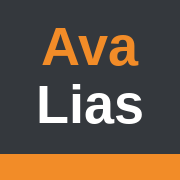
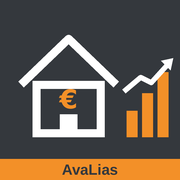
AvaLias: ícone de avaliação de ativos (casa, € e gráfico); service worker guarda o manifest certo
Claude-Session: https://claude.ai/code/session_01WmKbAz9Cc2mBjezjkKT2Gw

Changed region(s): [[0.0833, 0.1389, 0.9722, 0.7778], [0.0, 0.8333, 1.0, 0.9722]]

diff --git a/avalias/sw.js b/avalias/sw.js
@@ -1,7 +1,7 @@
 // AvaLias — service worker: guarda a app no aparelho para funcionar sem rede.
 // Estratégia "rede primeiro": com rede, vai sempre buscar a versão mais recente; sem rede, usa a cópia guardada.
-const CACHE = 'avalias-v1';
-const ASSETS = ['./', 'index.html', 'manifest.json', 'icon-180.png', 'icon-192.png', 'icon-512.png'];
+const CACHE = 'avalias-v2';
+const ASSETS = ['./', 'index.html', 'manifest.webmanifest', 'icon-180.png', 'icon-192.png', 'icon-512.png'];
 self.addEventListener('install', e => {
   e.waitUntil(caches.open(CACHE).then(c => c.addAll(ASSETS)).then(() => self.skipWaiting()));
 });

diff --git a/avalias/index.html b/avalias/index.html
@@ -8,8 +8,8 @@
 <meta name="theme-color" content="#34383d">
 <title>AvaLias</title>
 <link rel="manifest" href="manifest.json">
-<link rel="apple-touch-icon" href="icon-180.png">
-<link rel="icon" type="image/png" href="icon-192.png">
+<link rel="apple-touch-icon" href="icon-180.png?v=ativos">
+<link rel="icon" type="image/png" href="icon-192.png?v=ativos">
 <style>
 :root{--bg:#eaf1f8;--card:#fff;--ink:#1f2328;--mute:#5f656d;--line:#cfd9e5;--pri:#6b4f00;--pri2:#2f6aa3;--ok:#2e7d32;--okbg:#e8f5e9;--warn:#9a5b00;--warnbg:#fff4e0;--bad:#c62828;--badbg:#fdecea;--safe:150px}
 *{box-sizing:border-box}
